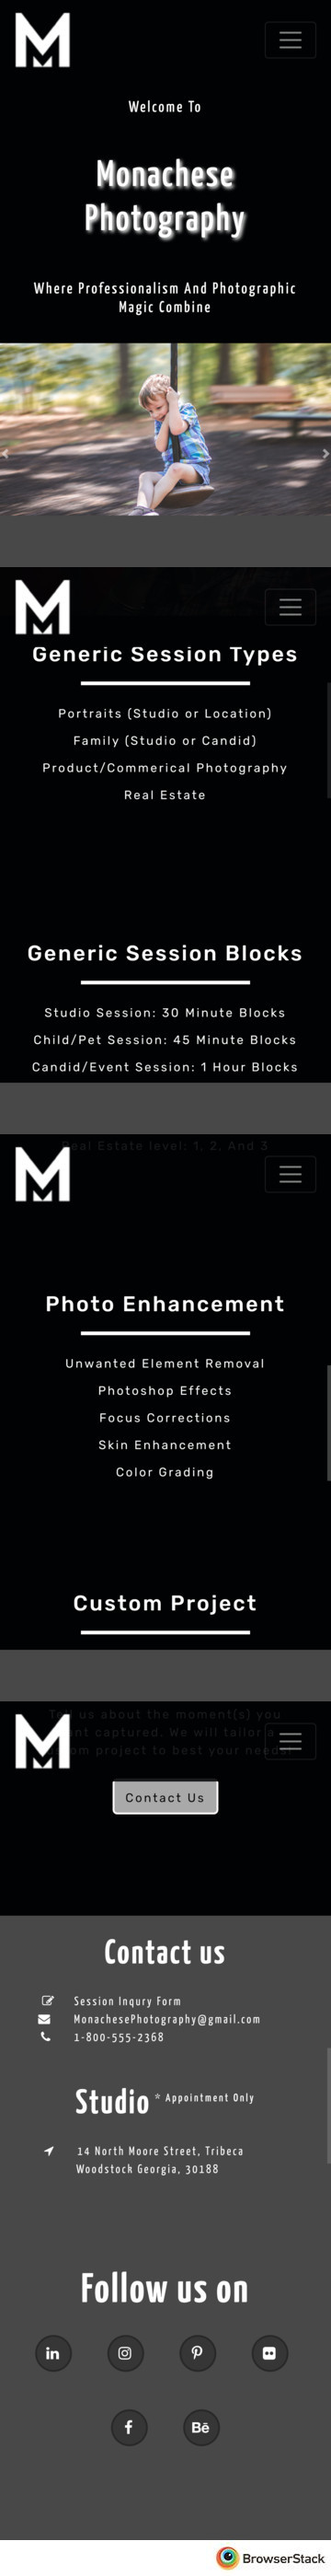
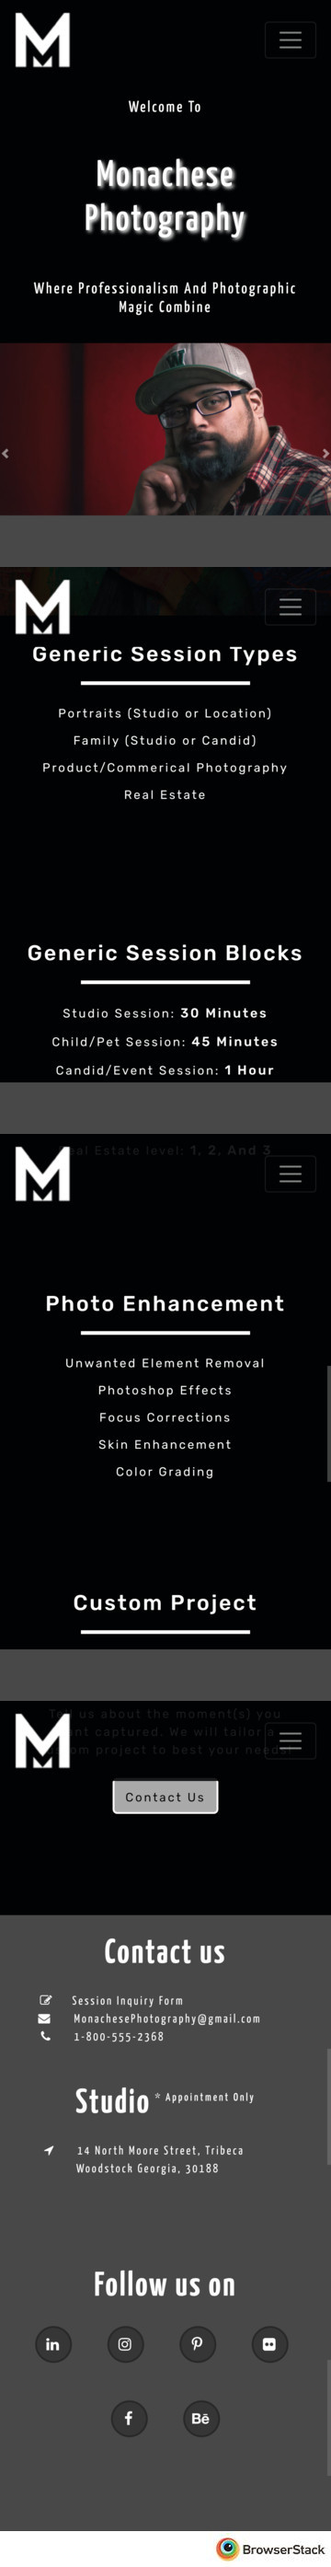
updated browserstack images and removed two unnecessary sections from README.md

diff --git a/README.md b/README.md
@@ -41,7 +41,7 @@ these also may appeal to a smaller market of young adults seeking business portr
 
 ### Image Compression
 + [TinyPNG](https://tinypng.com/) image compression roughly elimates 51% of kb load from images
-+ The reduction of image size allows the page to load in roughly 0.241 seconds according to [Pingdom](https://tools.pingdom.com/)
++ The reduction of image size allows the pages to load in a rough average of under 0.250 seconds according to [Pingdom](https://tools.pingdom.com/)
 
 
 ![Tinyify differrence image](assets/images/tiny-ping-combo.png "Displays the minification done to image")
@@ -145,7 +145,7 @@ Should return a load time for page
 + When viewing all sub-galleries at an i5 resolution in landscape (568px x 320px) while using the Chrome inspect function, the top and bottom 
     borders of photos cannot be seen due to the size of the nav bar and the physical limitations of the pixels on the screen.
 
-## Supports these operatings systems with current versions of associated browsers 
+## Supports these operatings systems with a current version of associated browsers 
 + Windows 10
     + Chrome, Internet Explorer, Firefox
 + Windows 8.1, 8.0, 7 
@@ -156,19 +156,6 @@ Should return a load time for page
     + Safari and Chrome
 + Mac OX X Yosemite and Mavericks
     + Chrome
-
-## Not Supported Determined by Browserstack and Version of Bootstrap
-+ Internet explorer 9 and older
-+ Opera 12.15 and older
-+ Firefox 3.6 and older
-+ Safari 8.0 and older
-
-## Web Browsers That Support Transition Effects Used
-+ Chrome 26.0 and newer
-+ Internet explorer 10 and newer
-+ Firefox 16 and newer
-+ Safari 6.1 and newer
-+ Opera 12.1 and newer
 
 ## Scalability
 + Adding a user operable slide-bar to change images from the original to an edited version could offer better representation on the digital 
